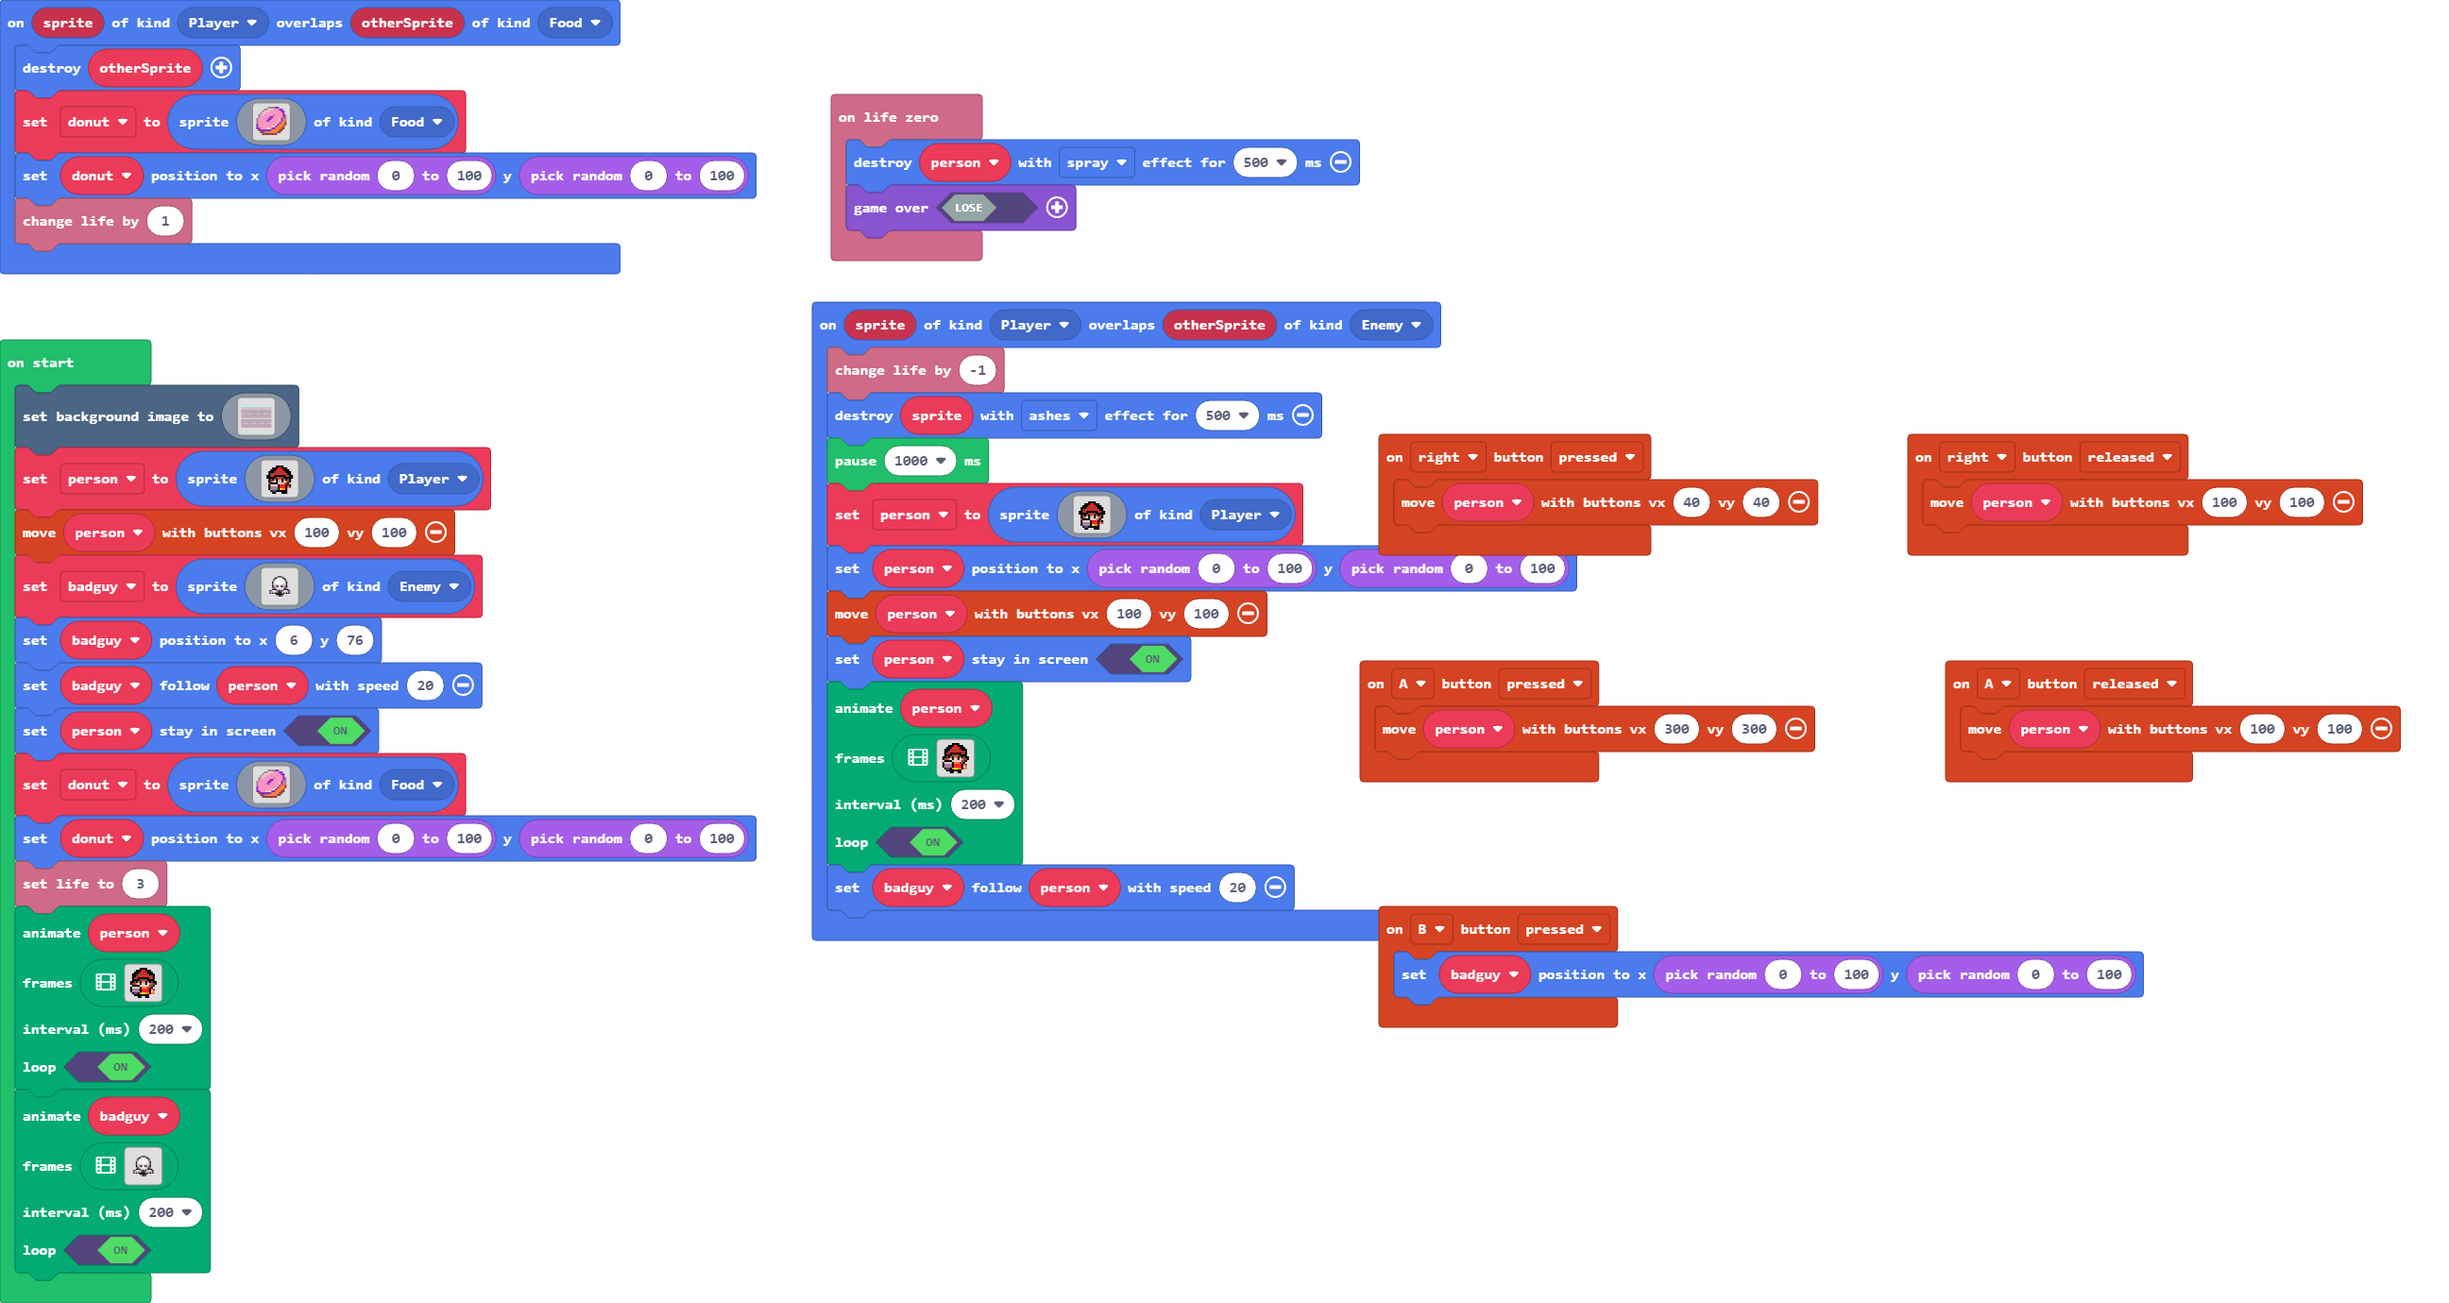
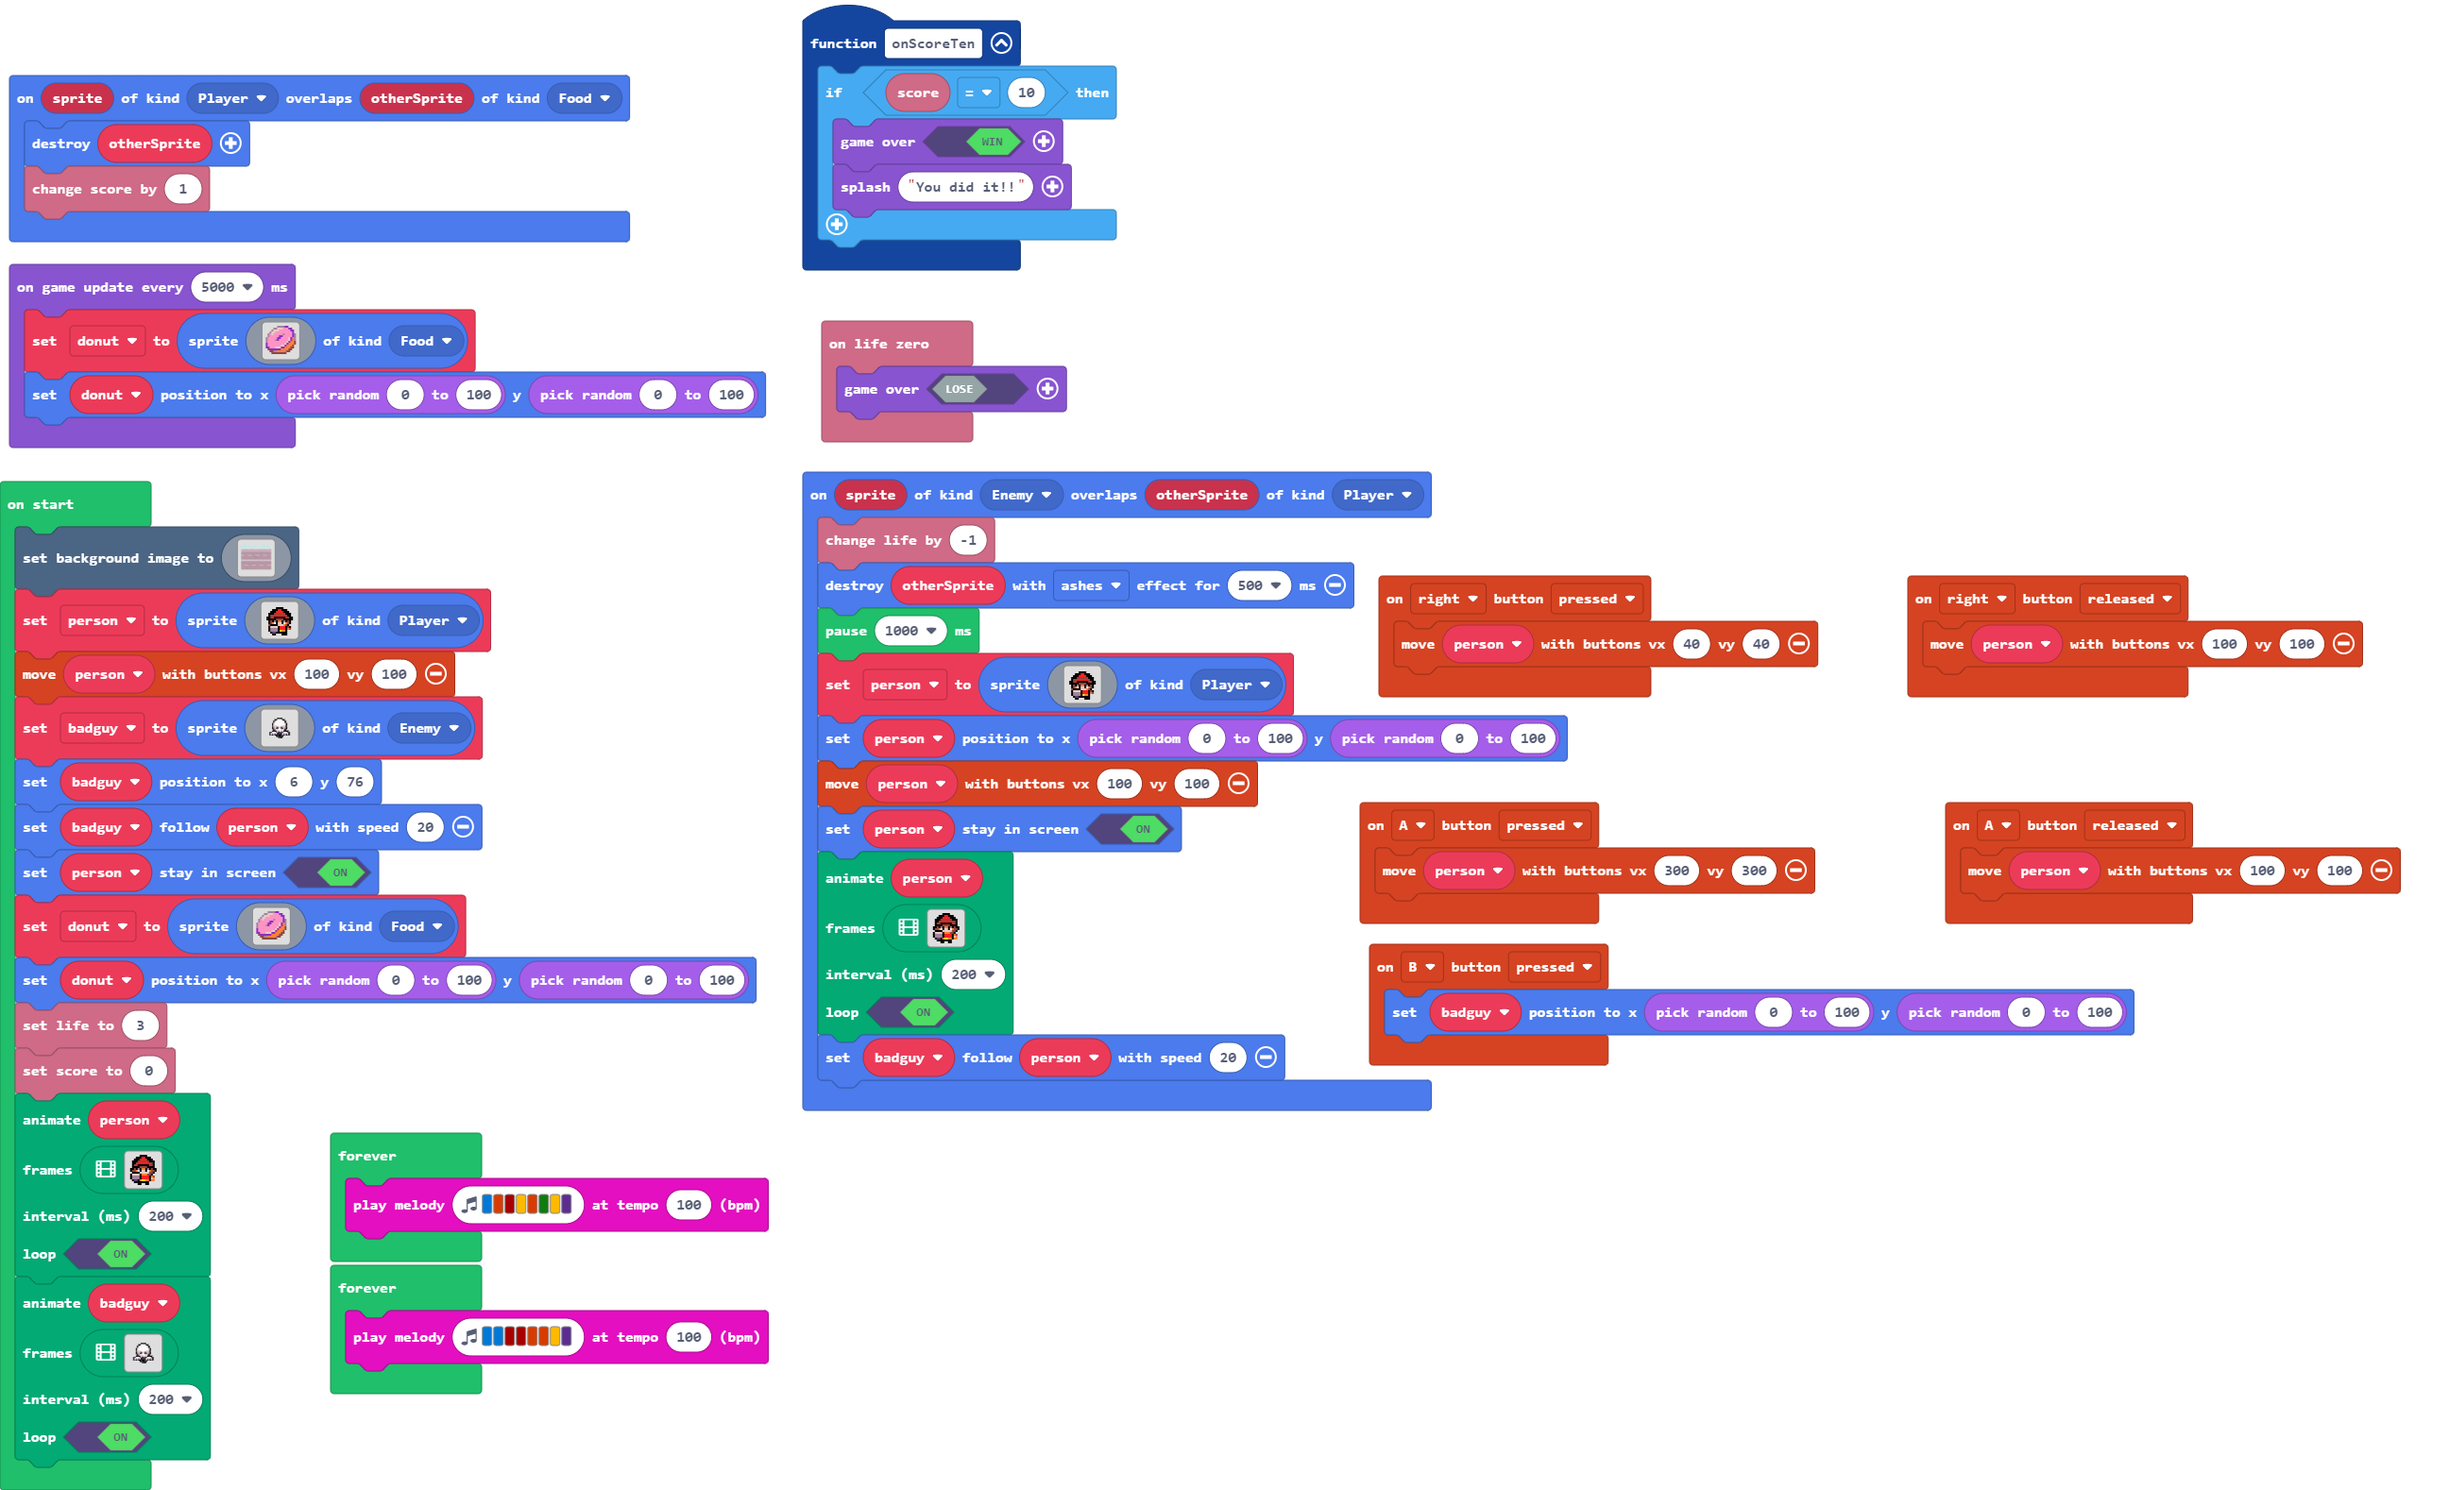
Update pxt.json, main.blocks, main.ts, tilemap.g.jres, tilemap.g.ts

diff --git a/main.ts b/main.ts
@@ -1,6 +1,12 @@
 controller.B.onEvent(ControllerButtonEvent.Pressed, function () {
     badguy.setPosition(randint(0, 100), randint(0, 100))
 })
+function onScoreTen () {
+    if (info.score() == 10) {
+        game.over(true)
+        game.splash("You did it!!")
+    }
+}
 controller.A.onEvent(ControllerButtonEvent.Pressed, function () {
     controller.moveSprite(person, 300, 300)
 })
@@ -13,36 +19,9 @@ controller.right.onEvent(ControllerButtonEvent.Pressed, function () {
 controller.A.onEvent(ControllerButtonEvent.Released, function () {
     controller.moveSprite(person, 100, 100)
 })
-info.onLifeZero(function () {
-    person.destroy(effects.spray, 500)
-    game.over(false)
-})
-sprites.onOverlap(SpriteKind.Player, SpriteKind.Food, function (sprite, otherSprite) {
-    otherSprite.destroy()
-    donut = sprites.create(img`
-        . . . . . . b b b b a a . . . . 
-        . . . . b b d d d 3 3 3 a a . . 
-        . . . b d d d 3 3 3 3 3 3 a a . 
-        . . b d d 3 3 3 3 3 3 3 3 3 a . 
-        . b 3 d 3 3 3 3 3 b 3 3 3 3 a b 
-        . b 3 3 3 3 3 a a 3 3 3 3 3 a b 
-        b 3 3 3 3 3 a a 3 3 3 3 d a 4 b 
-        b 3 3 3 3 b a 3 3 3 3 3 d a 4 b 
-        b 3 3 3 3 3 3 3 3 3 3 d a 4 4 e 
-        a 3 3 3 3 3 3 3 3 3 d a 4 4 4 e 
-        a 3 3 3 3 3 3 3 d d a 4 4 4 e . 
-        a a 3 3 3 d d d a a 4 4 4 e e . 
-        . e a a a a a a 4 4 4 4 e e . . 
-        . . e e b b 4 4 4 4 b e e . . . 
-        . . . e e e e e e e e . . . . . 
-        . . . . . . . . . . . . . . . . 
-        `, SpriteKind.Food)
-    donut.setPosition(randint(0, 100), randint(0, 100))
-    info.changeLifeBy(1)
-})
-sprites.onOverlap(SpriteKind.Player, SpriteKind.Enemy, function (sprite, otherSprite) {
+sprites.onOverlap(SpriteKind.Enemy, SpriteKind.Player, function (sprite, otherSprite) {
     info.changeLifeBy(-1)
-    sprite.destroy(effects.ashes, 500)
+    otherSprite.destroy(effects.ashes, 500)
     pause(1000)
     person = sprites.create(img`
         . . . . . . . . . . . . . . . . 
@@ -141,7 +120,13 @@ sprites.onOverlap(SpriteKind.Player, SpriteKind.Enemy, function (sprite, otherSp
     )
     badguy.follow(person, 20)
 })
-let donut: Sprite = null
+info.onLifeZero(function () {
+    game.over(false)
+})
+sprites.onOverlap(SpriteKind.Player, SpriteKind.Food, function (sprite, otherSprite) {
+    otherSprite.destroy()
+    info.changeScoreBy(1)
+})
 let badguy: Sprite = null
 let person: Sprite = null
 scene.setBackgroundImage(img`
@@ -314,7 +299,7 @@ badguy = sprites.create(img`
 badguy.setPosition(6, 76)
 badguy.follow(person, 20)
 person.setStayInScreen(true)
-donut = sprites.create(img`
+let donut = sprites.create(img`
     . . . . . . b b b b a a . . . . 
     . . . . b b d d d 3 3 3 a a . . 
     . . . b d d d 3 3 3 3 3 3 a a . 
@@ -334,6 +319,7 @@ donut = sprites.create(img`
     `, SpriteKind.Food)
 donut.setPosition(randint(0, 100), randint(0, 100))
 info.setLife(3)
+info.setScore(0)
 animation.runImageAnimation(
 person,
 [img`
@@ -514,3 +500,30 @@ badguy,
 200,
 true
 )
+game.onUpdateInterval(5000, function () {
+    donut = sprites.create(img`
+        . . . . . . b b b b a a . . . . 
+        . . . . b b d d d 3 3 3 a a . . 
+        . . . b d d d 3 3 3 3 3 3 a a . 
+        . . b d d 3 3 3 3 3 3 3 3 3 a . 
+        . b 3 d 3 3 3 3 3 b 3 3 3 3 a b 
+        . b 3 3 3 3 3 a a 3 3 3 3 3 a b 
+        b 3 3 3 3 3 a a 3 3 3 3 d a 4 b 
+        b 3 3 3 3 b a 3 3 3 3 3 d a 4 b 
+        b 3 3 3 3 3 3 3 3 3 3 d a 4 4 e 
+        a 3 3 3 3 3 3 3 3 3 d a 4 4 4 e 
+        a 3 3 3 3 3 3 3 d d a 4 4 4 e . 
+        a a 3 3 3 d d d a a 4 4 4 e e . 
+        . e a a a a a a 4 4 4 4 e e . . 
+        . . e e b b 4 4 4 4 b e e . . . 
+        . . . e e e e e e e e . . . . . 
+        . . . . . . . . . . . . . . . . 
+        `, SpriteKind.Food)
+    donut.setPosition(randint(0, 100), randint(0, 100))
+})
+forever(function () {
+    music.playMelody("E B C5 A B G A D ", 100)
+})
+forever(function () {
+    music.playMelody("E E C5 C5 B B A D ", 100)
+})

diff --git a/tilemap.g.ts b/tilemap.g.ts
@@ -1,0 +1,14 @@
+// Auto-generated code. Do not edit.
+namespace myTiles {
+    //% fixedInstance jres blockIdentity=images._tile
+    export const transparency16 = image.ofBuffer(hex``);
+
+    helpers._registerFactory("tile", function(name: string) {
+        switch(helpers.stringTrim(name)) {
+            case "transparency16":return transparency16;
+        }
+        return null;
+    })
+
+}
+// Auto-generated code. Do not edit.
